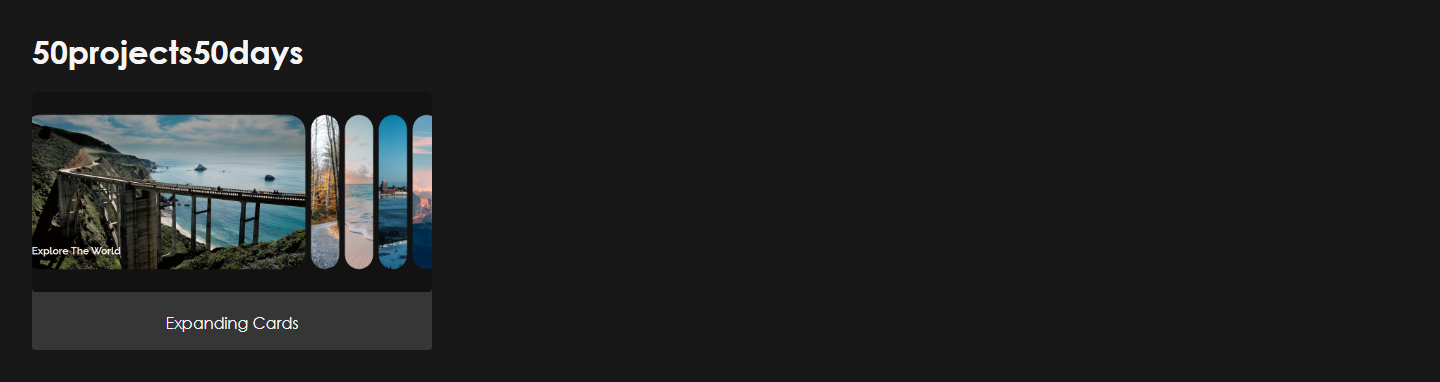
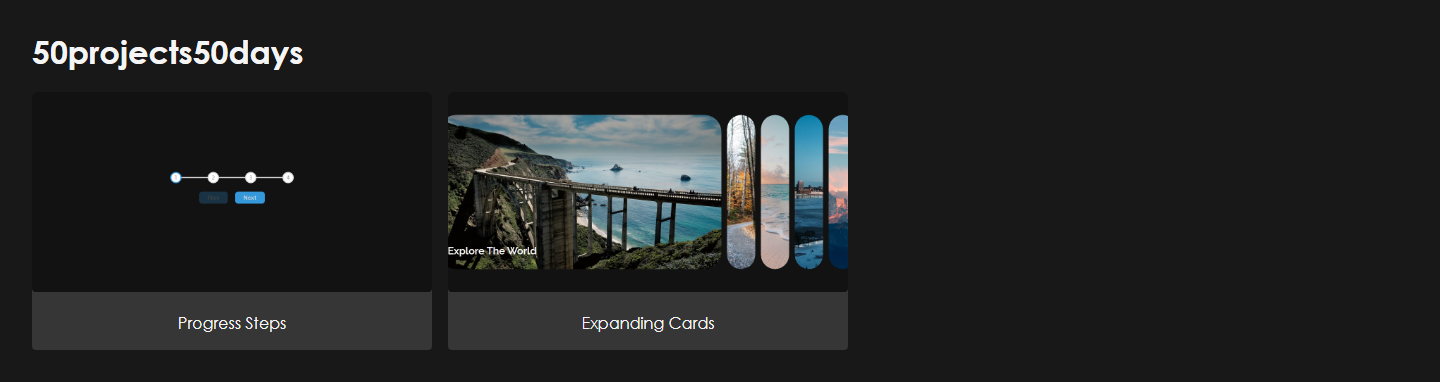
add progress-steps

Changed region(s): [[0.0, 0.288, 0.5938, 0.7199], [0.3125, 0.7487, 0.5938, 0.9215], [0.0938, 0.8351, 0.2188, 0.8639]]

diff --git a/index.html b/index.html
@@ -95,6 +95,19 @@
             </figure> -->
             <figure>
                 <a
+                    href="https://rehberbey.github.io/50projects50days/progress-steps/views/index.html"
+                    target="_blank"
+                    rel="noopener noreferrer"
+                >
+                    <img
+                        src="./progress-steps/src/public/image/screenshot.png"
+                        alt="Progress Steps"
+                    />
+                    <figcaption>Progress Steps</figcaption>
+                </a>
+            </figure>
+            <figure>
+                <a
                     href="https://rehberbey.github.io/50projects50days/expanding-cards/views/index.html"
                     target="_blank"
                     rel="noopener noreferrer"
@@ -110,7 +123,7 @@
 
         <script>
             const figcaption = document.querySelectorAll(
-                "figure > a > figcaption",
+                "figure > a > figcaption"
             );
 
             for (const el of figcaption) {

diff --git a/.github/README.md b/.github/README.md
@@ -9,7 +9,7 @@ Bu çalışmalar, kendimi geliştirmeme ne kadar yarıyorsa; bir o kadar da beni
 |  #  | Project                                                                                                                   | Live Demo                                                                                                |
 | :-: | ------------------------------------------------------------------------------------------------------------------------- | -------------------------------------------------------------------------------------------------------- |
 | 01  | [Expanding Cards](https://github.com/rehberbey/50projects50days/tree/master/expanding-cards)                              | [Live Demo](https://rehberbey.github.io/50projects50days/expanding-cards/views/index.html)               |
-| 02  | ❌ [Progress Steps](https://github.com/rehberbey/50projects50days/tree/master/progress-steps)                             | [Live Demo](https://rehberbey.github.io/50projects50days/progress-steps/views/index.html)                |
+| 02  | [Progress Steps](https://github.com/rehberbey/50projects50days/tree/master/progress-steps)                                | [Live Demo](https://rehberbey.github.io/50projects50days/progress-steps/views/index.html)                |
 | 03  | ❌ [Rotating Navigation Animation](https://github.com/rehberbey/50projects50days/tree/master/rotating-nav-animation)      | [Live Demo](https://rehberbey.github.io/50projects50days/rotating-navigation-animation/views/index.html) |
 | 04  | ❌ [Hidden Search Widget](https://github.com/rehberbey/50projects50days/tree/master/hidden-search)                        | [Live Demo](https://rehberbey.github.io/50projects50days/hidden-search-widget/views/index.html)          |
 | 05  | ❌ [Blurry Loading](https://github.com/rehberbey/50projects50days/tree/master/blurry-loading)                             | [Live Demo](https://rehberbey.github.io/50projects50days/blurry-loading/views/index.html)                |
